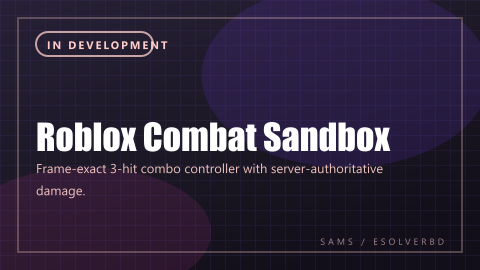
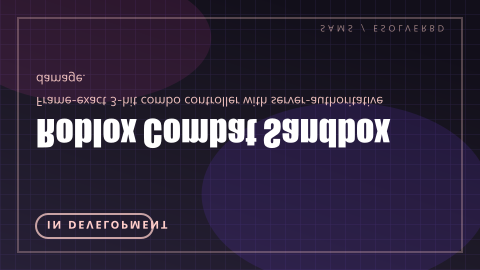
Flip 3D texture images vertically so text renders the right way up

diff --git a/scripts/generate-content-assets.js b/scripts/generate-content-assets.js
@@ -172,7 +172,7 @@ async function generateCareerLabel(zone)
     const svg = `<svg xmlns="http://www.w3.org/2000/svg" width="${plate.width}" height="${plate.height}">${parts.join('')}</svg>`
 
     const out = path.join(STATIC, 'career', `${zone.texture}.png`)
-    await sharp(Buffer.from(svg)).png().toFile(out)
+    await sharp(Buffer.from(svg)).flip().png().toFile(out)
     console.log(`  career/${zone.texture}.png (${plate.width}x${plate.height})`)
 }
 
@@ -280,7 +280,7 @@ async function generateProjectImage(project, index, imageIndex)
 
     const file = project.images[imageIndex]
     const out = path.join(STATIC, 'projects', 'images', file)
-    await sharp(Buffer.from(svg)).png().toFile(out)
+    await sharp(Buffer.from(svg)).flip().png().toFile(out)
     console.log(`  projects/images/${file}`)
 }
 
@@ -301,7 +301,7 @@ async function generateLabImage(item, index, mini)
 
     const file = mini ? item.imageMini : item.image
     const out = path.join(STATIC, 'lab', 'images', file)
-    await sharp(Buffer.from(svg)).png().toFile(out)
+    await sharp(Buffer.from(svg)).flip().png().toFile(out)
     console.log(`  lab/images/${file}`)
 }
 
